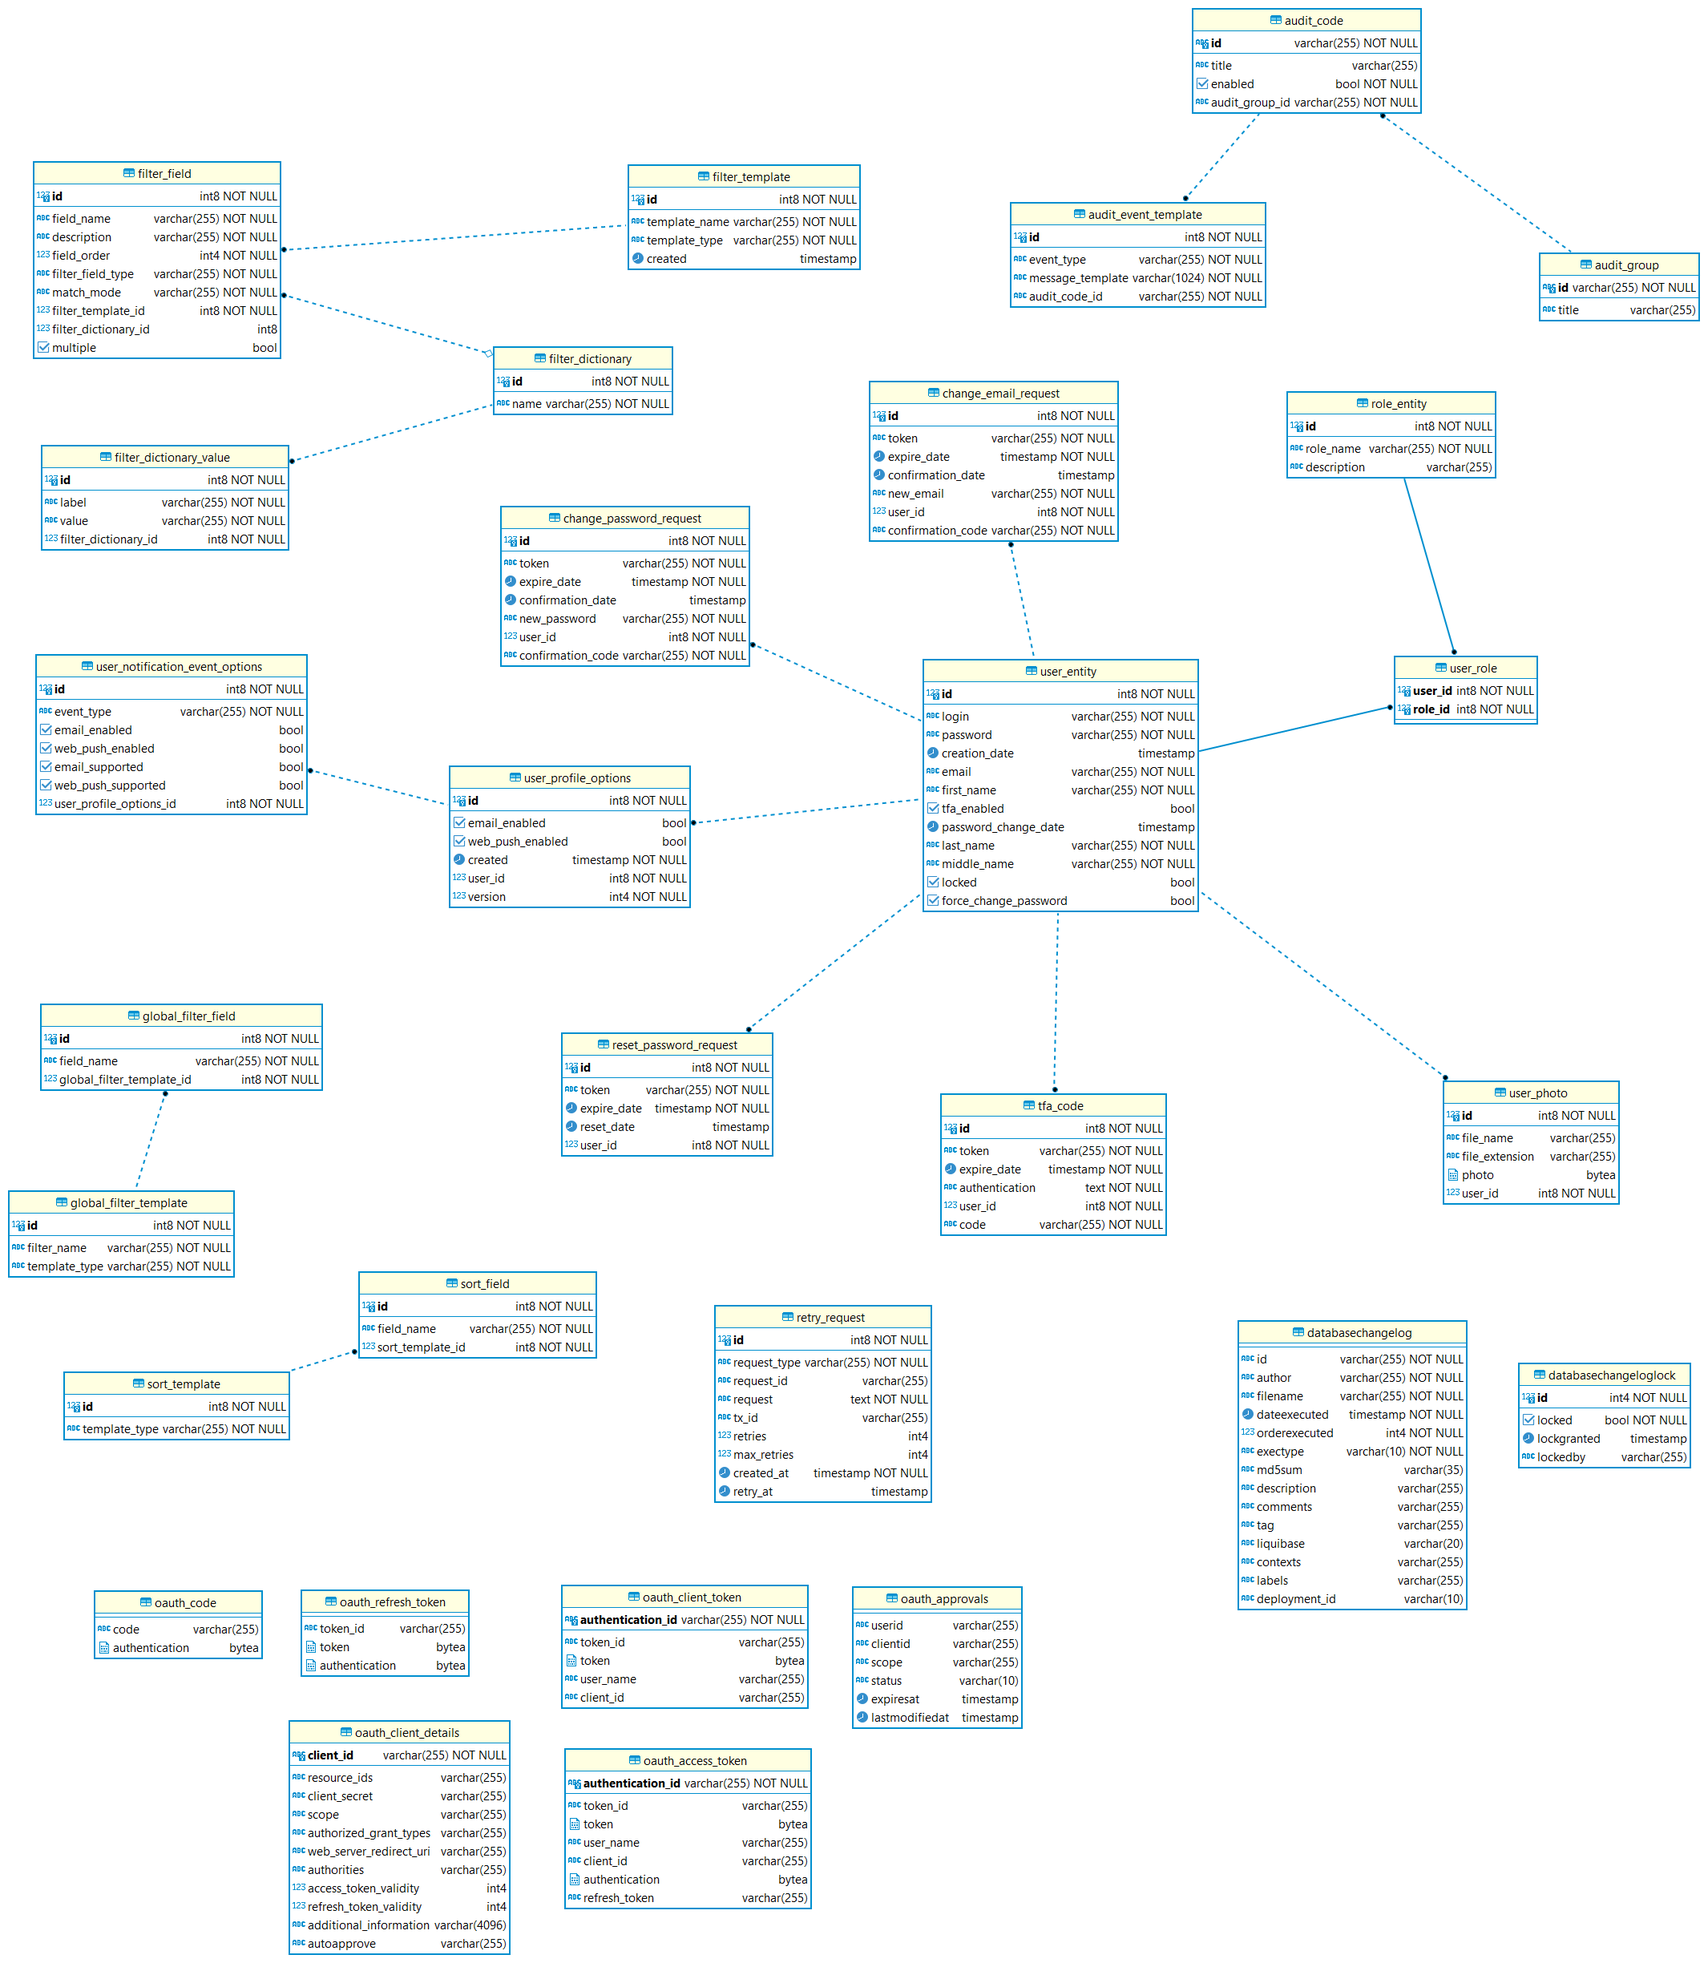
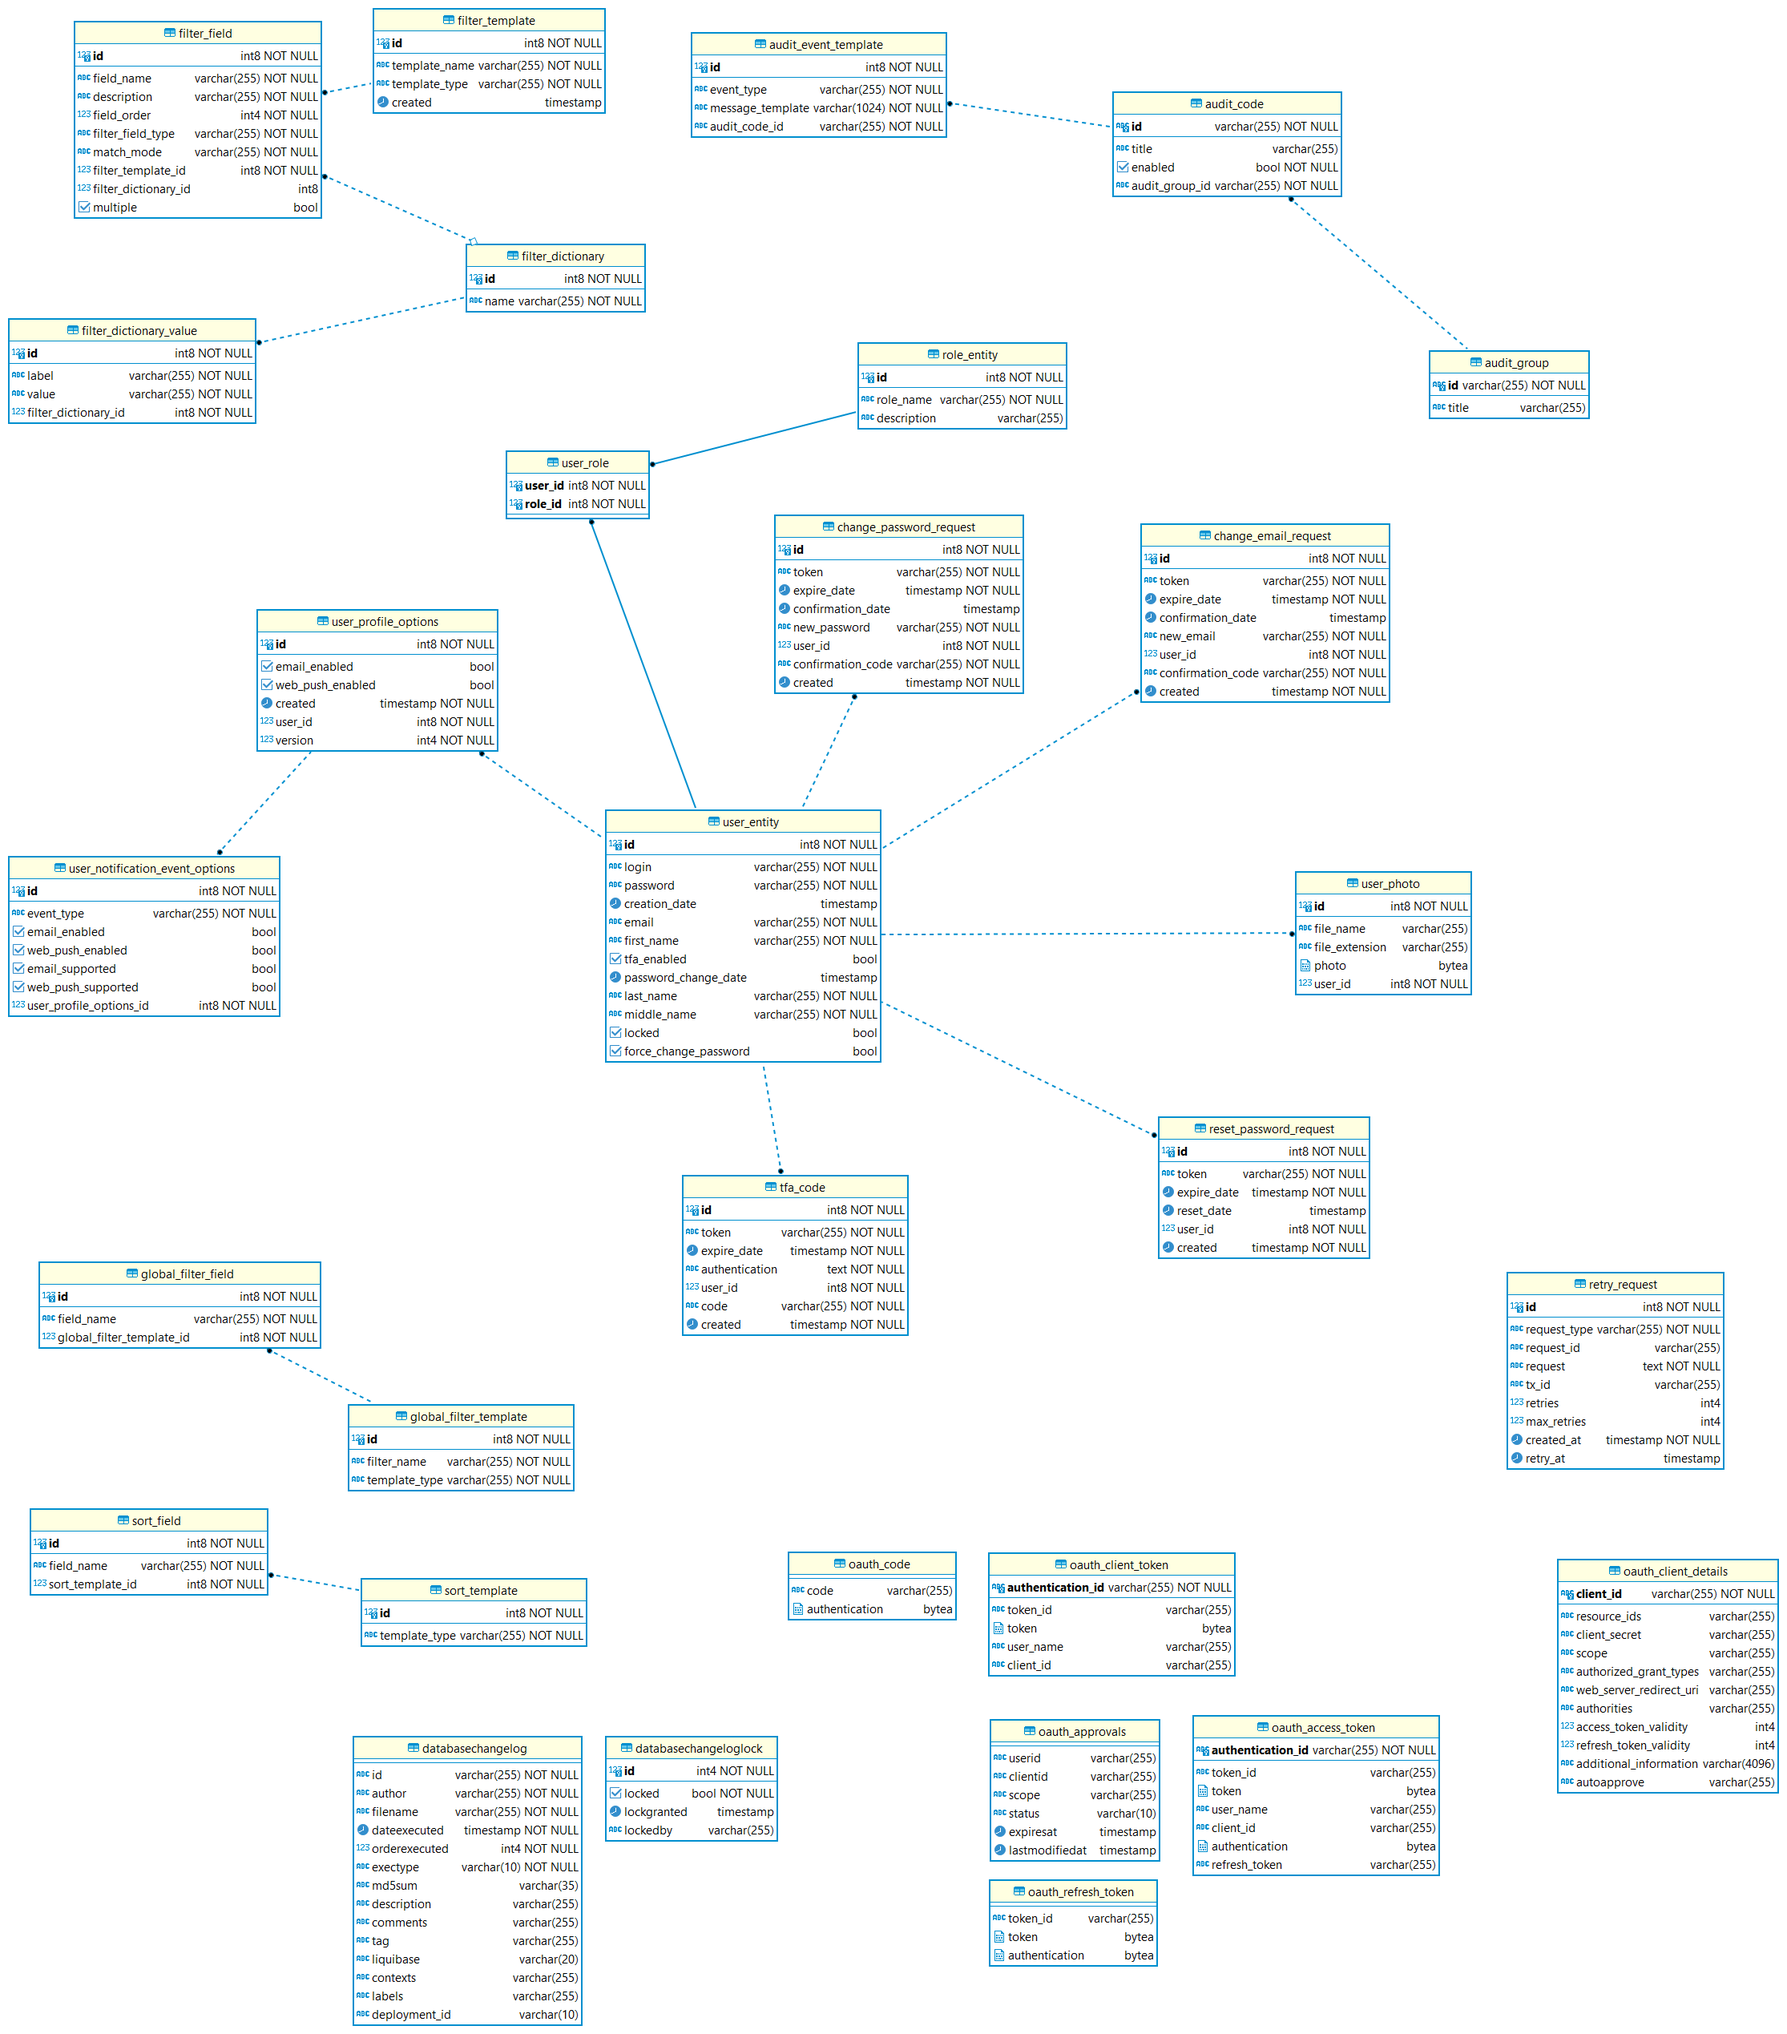
ECS-24 configured core-data-cleaner lib into eca-oauth

Changed region(s): [[0.0, 0.0, 1.0, 1.0], [0.8053, 0.3103, 0.8982, 0.3724], [0.8982, 0.1241, 1.0, 0.1862]]

diff --git a/eca-oauth/src/main/java/com/ecaservice/oauth/repository/TfaCodeRepository.java b/eca-oauth/src/main/java/com/ecaservice/oauth/repository/TfaCodeRepository.java
@@ -3,7 +3,6 @@ package com.ecaservice.oauth.repository;
 import com.ecaservice.oauth.entity.TfaCodeEntity;
 import com.ecaservice.oauth.entity.UserEntity;
 import org.springframework.data.jpa.repository.JpaRepository;
-import org.springframework.data.jpa.repository.Modifying;
 import org.springframework.data.jpa.repository.Query;
 import org.springframework.data.repository.query.Param;
 
@@ -35,31 +34,4 @@ public interface TfaCodeRepository extends JpaRepository<TfaCodeEntity, Long> {
      * @return tfa code entity
      */
     TfaCodeEntity findByToken(String token);
-
-    /**
-     * Gets expired codes ids.
-     *
-     * @param date - date bound
-     * @return expired codes ids
-     */
-    @Query("select tc.id from TfaCodeEntity tc where tc.expireDate < :date")
-    List<Long> getExpiredCodeIds(@Param("date") LocalDateTime date);
-
-    /**
-     * Deletes expired codes ids.
-     *
-     * @param date - date bound
-     * @return deleted codes count
-     */
-    @Modifying
-    @Query("delete from TfaCodeEntity tc where tc.expireDate < :date")
-    int deleteExpiredCodes(@Param("date") LocalDateTime date);
-
-    /**
-     * Gets tfa codes by ids.
-     *
-     * @param ids - tfa codes ids
-     * @return tfa codes list
-     */
-    List<TfaCodeEntity> findByIdIn(List<Long> ids);
 }

diff --git a/eca-oauth/src/main/java/com/ecaservice/oauth/service/tfa/TfaCodeService.java b/eca-oauth/src/main/java/com/ecaservice/oauth/service/tfa/TfaCodeService.java
@@ -95,17 +95,6 @@ public class TfaCodeService {
         return authentication;
     }
 
-    /**
-     * Deletes expired 2fa codes.
-     */
-    @Transactional
-    public void deleteExpiredCodes() {
-        var deletedCount = tfaCodeRepository.deleteExpiredCodes(LocalDateTime.now());
-        if (deletedCount > 0) {
-            log.info("[{}] expired tfa codes has been removed", deletedCount);
-        }
-    }
-
     private void invalidatePreviousCodes(UserEntity userEntity) {
         var previousCodes = tfaCodeRepository.findActiveCodes(userEntity, LocalDateTime.now());
         if (!CollectionUtils.isEmpty(previousCodes)) {
@@ -123,6 +112,7 @@ public class TfaCodeService {
         tfaCodeEntity.setAuthentication(serializationHelper.serialize(authentication));
         tfaCodeEntity.setExpireDate(LocalDateTime.now().plusSeconds(tfaConfig.getCodeValiditySeconds()));
         tfaCodeEntity.setUserEntity(userEntity);
+        tfaCodeEntity.setCreated(LocalDateTime.now());
         tfaCodeRepository.save(tfaCodeEntity);
         log.info("New tfa code has been generated for user [{}]", userEntity.getId());
     }

diff --git a/eca-oauth/src/main/java/com/ecaservice/oauth/service/ResetPasswordService.java b/eca-oauth/src/main/java/com/ecaservice/oauth/service/ResetPasswordService.java
@@ -73,6 +73,7 @@ public class ResetPasswordService {
         resetPasswordRequestEntity.setExpireDate(
                 now.plusMinutes(appProperties.getResetPassword().getValidityMinutes()));
         resetPasswordRequestEntity.setUserEntity(userEntity);
+        resetPasswordRequestEntity.setCreated(LocalDateTime.now());
         resetPasswordRequestRepository.save(resetPasswordRequestEntity);
         log.info("Reset password request [{}] has been created for user with email [{}]",
                 resetPasswordRequestEntity.getId(), maskEmail(createResetPasswordRequest.getEmail()));

diff --git a/eca-oauth/src/main/java/com/ecaservice/oauth/service/ChangePasswordService.java b/eca-oauth/src/main/java/com/ecaservice/oauth/service/ChangePasswordService.java
@@ -179,6 +179,7 @@ public class ChangePasswordService {
         String encodedPassword = passwordEncoder.encode(changePasswordRequest.getNewPassword().trim());
         changePasswordRequestEntity.setNewPassword(encodedPassword);
         changePasswordRequestEntity.setUserEntity(userEntity);
+        changePasswordRequestEntity.setCreated(LocalDateTime.now());
         return changePasswordRequestRepository.save(changePasswordRequestEntity);
     }
 }

diff --git a/eca-oauth/src/test/java/com/ecaservice/oauth/service/ChangePasswordServiceTest.java b/eca-oauth/src/test/java/com/ecaservice/oauth/service/ChangePasswordServiceTest.java
@@ -234,6 +234,7 @@ class ChangePasswordServiceTest extends AbstractJpaTest {
         changePasswordRequestEntity.setConfirmationDate(confirmationDate);
         changePasswordRequestEntity.setUserEntity(userEntity);
         changePasswordRequestEntity.setNewPassword(NEW_PASSWORD);
+        changePasswordRequestEntity.setCreated(LocalDateTime.now());
         return changePasswordRequestRepository.save(changePasswordRequestEntity);
     }
 

diff --git a/eca-oauth/src/test/java/com/ecaservice/oauth/service/ResetPasswordServiceTest.java b/eca-oauth/src/test/java/com/ecaservice/oauth/service/ResetPasswordServiceTest.java
@@ -185,6 +185,7 @@ class ResetPasswordServiceTest extends AbstractJpaTest {
         resetPasswordRequestEntity.setExpireDate(expireDate);
         resetPasswordRequestEntity.setResetDate(resetDate);
         resetPasswordRequestEntity.setUserEntity(userEntity);
+        resetPasswordRequestEntity.setCreated(LocalDateTime.now());
         return resetPasswordRequestRepository.save(resetPasswordRequestEntity);
     }
 }

diff --git a/eca-oauth/src/test/java/com/ecaservice/oauth/service/ChangeEmailServiceTest.java b/eca-oauth/src/test/java/com/ecaservice/oauth/service/ChangeEmailServiceTest.java
@@ -189,6 +189,7 @@ class ChangeEmailServiceTest extends AbstractJpaTest {
         changeEmailRequestEntity.setConfirmationDate(confirmationDate);
         changeEmailRequestEntity.setUserEntity(userEntity);
         changeEmailRequestEntity.setNewEmail(NEW_EMAIL);
+        changeEmailRequestEntity.setCreated(LocalDateTime.now());
         return changeEmailRequestRepository.save(changeEmailRequestEntity);
     }
 

diff --git a/eca-oauth/src/test/java/com/ecaservice/oauth/service/tfa/TfaCodeServiceTest.java b/eca-oauth/src/test/java/com/ecaservice/oauth/service/tfa/TfaCodeServiceTest.java
@@ -113,6 +113,7 @@ class TfaCodeServiceTest extends AbstractJpaTest {
         tfaCodeEntity.setCode(md5Hex(TEST_CODE));
         tfaCodeEntity.setAuthentication(AUTHENTICATION);
         tfaCodeEntity.setExpireDate(LocalDateTime.now().plusSeconds(tfaConfig.getCodeValiditySeconds()));
+        tfaCodeEntity.setCreated(LocalDateTime.now());
         tfaCodeRepository.save(tfaCodeEntity);
     }
 }

diff --git a/eca-oauth/src/main/java/com/ecaservice/oauth/service/ChangeEmailService.java b/eca-oauth/src/main/java/com/ecaservice/oauth/service/ChangeEmailService.java
@@ -165,6 +165,7 @@ public class ChangeEmailService {
         changeEmailRequestEntity.setExpireDate(expireDate);
         changeEmailRequestEntity.setNewEmail(newEmail);
         changeEmailRequestEntity.setUserEntity(userEntity);
+        changeEmailRequestEntity.setCreated(LocalDateTime.now());
         return changeEmailRequestRepository.save(changeEmailRequestEntity);
     }
 }

diff --git a/eca-oauth/src/main/java/com/ecaservice/oauth/entity/TokenEntity.java b/eca-oauth/src/main/java/com/ecaservice/oauth/entity/TokenEntity.java
@@ -30,6 +30,12 @@ public abstract class TokenEntity {
     private String token;
 
     /**
+     * Created date
+     */
+    @Column(nullable = false)
+    private LocalDateTime created;
+
+    /**
      * Token expire date
      */
     @Column(name = "expire_date", nullable = false)

diff --git a/eca-oauth/src/main/java/com/ecaservice/oauth/config/TfaConfig.java b/eca-oauth/src/main/java/com/ecaservice/oauth/config/TfaConfig.java
@@ -26,9 +26,4 @@ public class TfaConfig {
      * Tfa enabled global setting
      */
     private Boolean enabled;
-
-    /**
-     * Scheduler delay in seconds
-     */
-    private Integer delaySeconds;
 }
